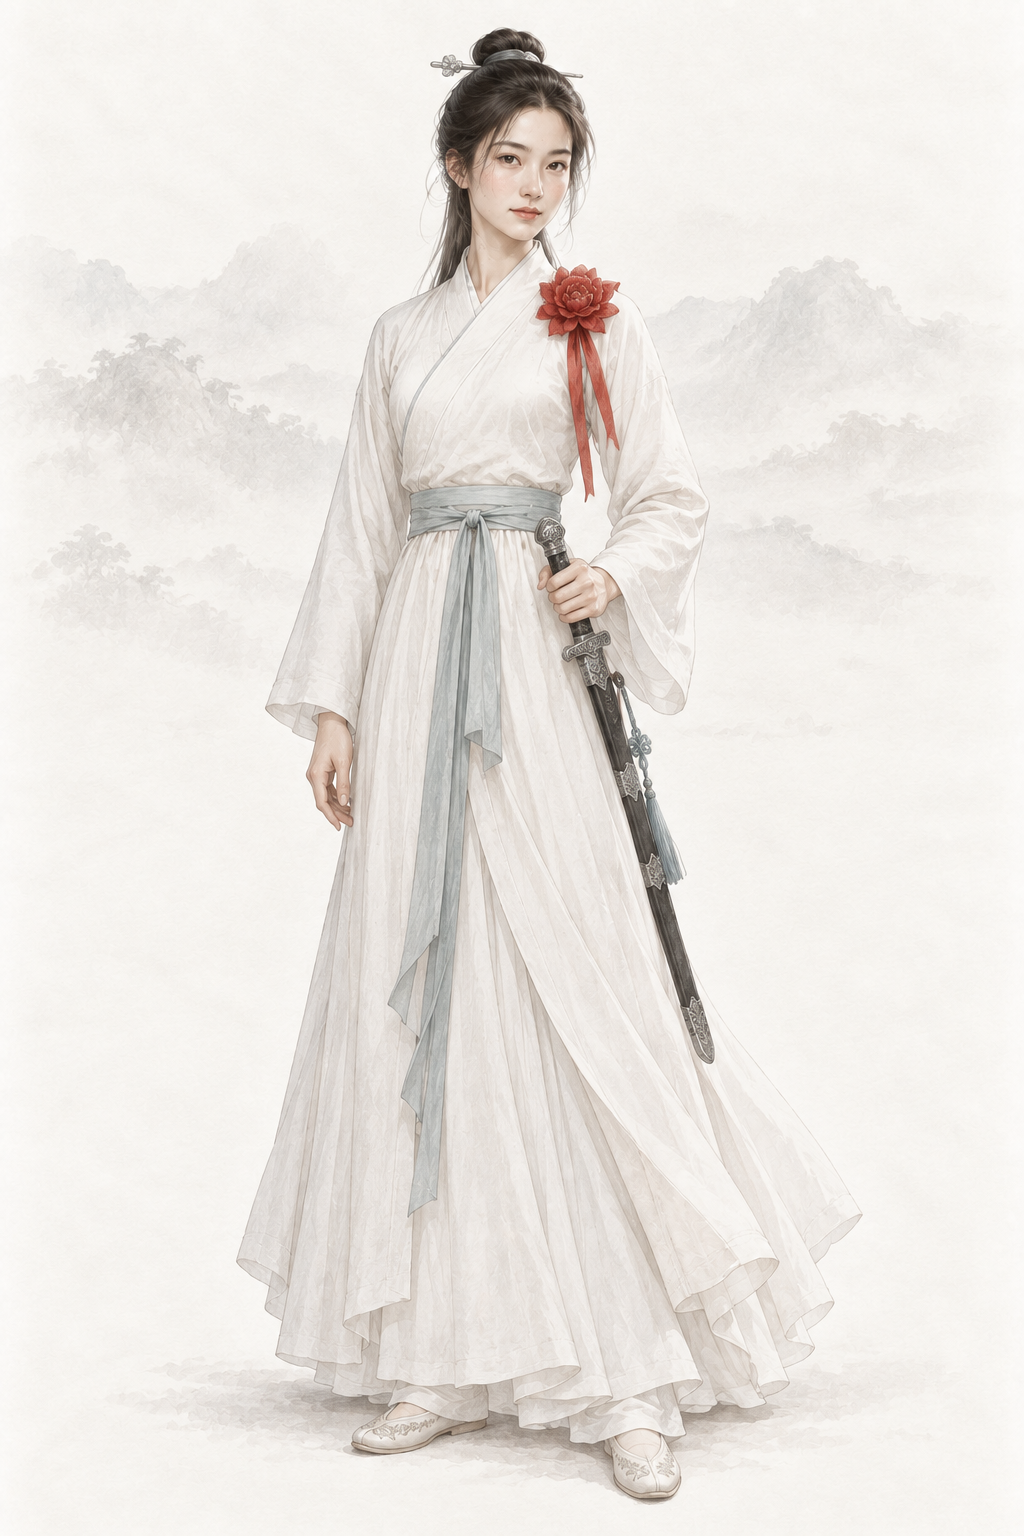
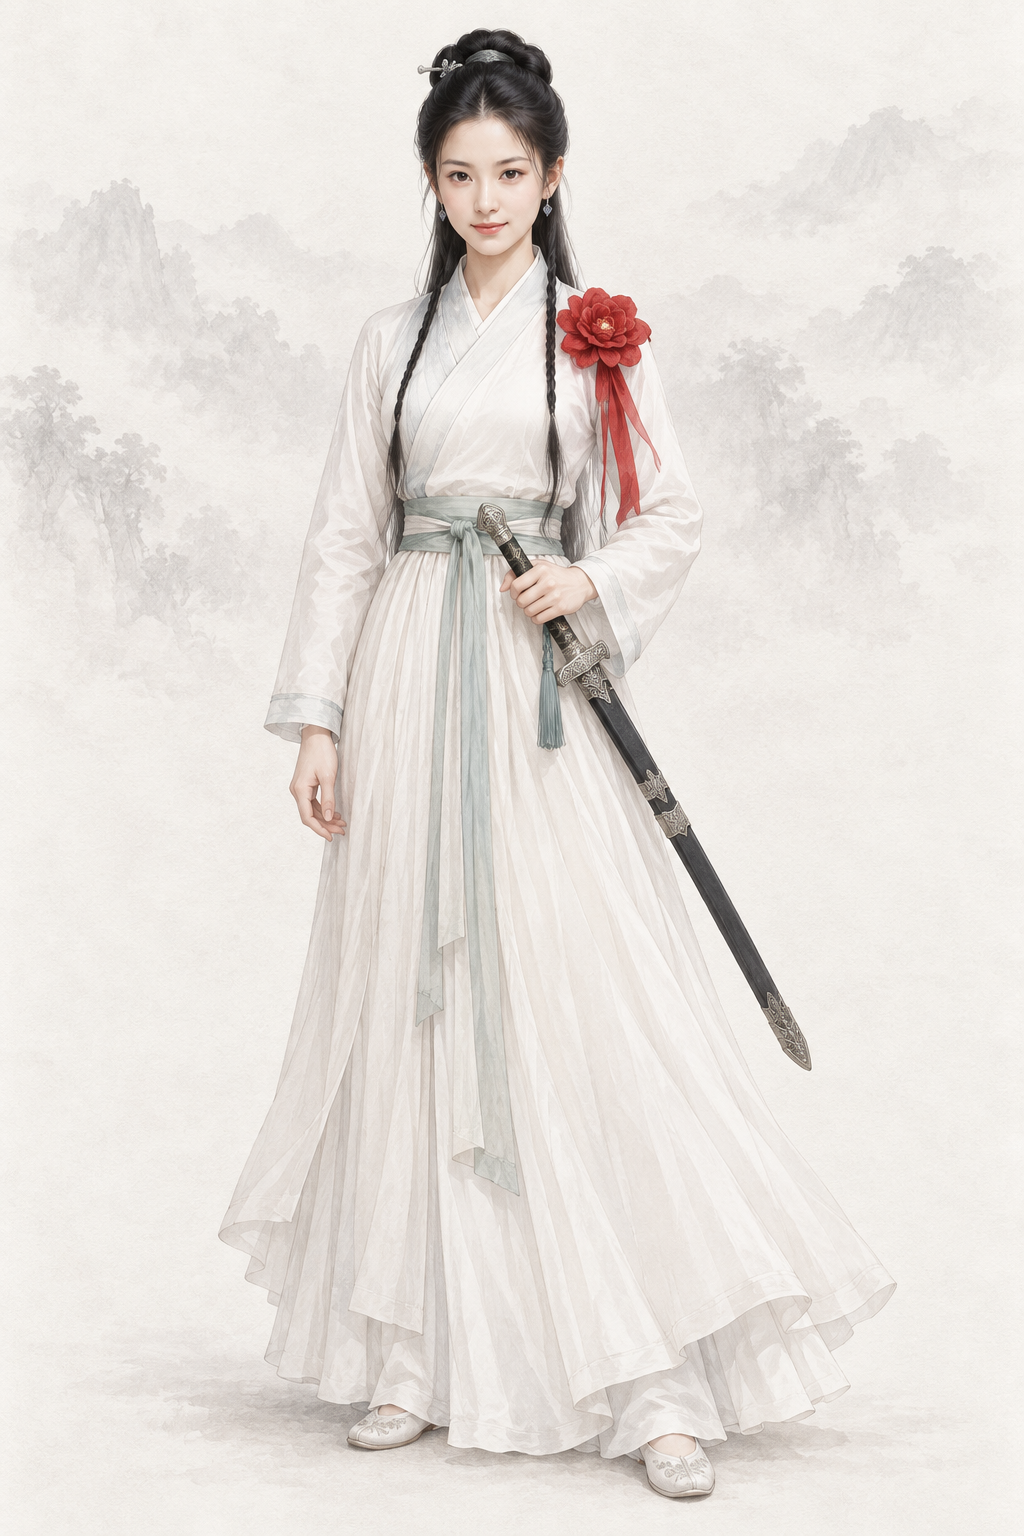
assets(character): por_npc_shuisheng__ch09_youth_travel_base 水笙（codex · AR-32 经典剧照重出）
2004 年《连城诀》电视剧剧照 1 张 + 基线；提示词写回「## Gemini 提示词」，上一版留作历史，frontmatter 加 classic_ref。

diff --git a/assets/default/prompts/characters/ch09-liancheng/npc_shuisheng.md b/assets/default/prompts/characters/ch09-liancheng/npc_shuisheng.md
@@ -13,9 +13,16 @@ references:
     use: 当前仓库 manifest 为 approved（已通过）；只参考纸底、光线、笔触和设色，不沿用脸、体型、服饰或道具
 status: new
 redo_reason: "连城诀女主角水笙（S）缺图；按名门侠女、骄傲爽朗的气质补出劫难前的行旅阶段。"
-reference_upload:
-- assets/default/baseline/character/female/ref_npc_wangyuyan__ch01_base01.png
 codex_prompt_rev: 2026-10-02
+classic_ref:
+  version: "2004 年《连城诀》电视剧"
+  stills:
+  - ".agents/coord/imagegen-reference/identity-20261001/liancheng/shuisheng_2004_shuchang_pnkds_20261002.jpg"
+  note: "剧照缩到长边 1024 的 JPEG 上传，放在两张同性别基线之前（AR-32）"
+reference_upload:
+- .agents/coord/imagegen-reference/identity-20261001/liancheng/shuisheng_2004_shuchang_pnkds_20261002.jpg
+- assets/default/baseline/character/female/ref_npc_wangyuyan__ch01_base01.png
+- assets/default/baseline/character/female/ref_npc_xiaolongnv__ch03_base01.png
 ---
 
 <!-- full-coverage-import:current-policy:v1 -->
@@ -28,6 +35,26 @@ codex_prompt_rev: 2026-10-02
 # 水笙 · 《连城诀》（ch09）
 
 ## Gemini 提示词
+
+> 2026-10-02 AR-32 经典剧照重出（6 号出图员，codex exec · image_gen 出图）：上传该角色经典影视版剧照 1 张（2004 年《连城诀》电视剧：shuisheng_2004_shuchang_pnkds_20261002.jpg）在前、两张同性别基线在后。剧照只借鉴发型、服饰、配色、标志道具、气质与面部特征，重新绘制成项目画风，不照搬照片的构图、光影和姿势；人物一律成年。提示词里不写演员名。上一版提示词保留在下一节作历史。
+
+```text
+生成一张 2:3 竖幅全身人物立绘：单人、单一视角、完整全身——头顶、双手、双脚和手中器物的两端都在画面内，四周留出自然空白；人物站姿自然，身体基本朝向正面，头部端正（不歪头、不仰不俯），镜头平视。
+【参考图】随提示词上传 3 张参考图。第 1 张参考图是该角色经典影视造型的剧照：借鉴其发型、服饰、配色、标志道具、气质和面部特征，让人一眼认出是这个角色；但必须重新绘制成项目画风，不要照片质感，不要照搬剧照的构图、光影、背景和姿势，也不要做成照片修图。剧照与下文文字不一致的地方（年龄、所处阶段、帽饰与衣装细节、手中器物），以下文文字为准；画中人一律是成年人。最后两张是本项目画风基线：画风、用色、光线、质感和暖浅灰纸底加淡水墨背景以它们为准。
+【画风】写实手绘古风人物插画，与本项目写实武侠角色立绘同一画风，像功力深厚的画师用细腻笔触画出的真实美人。手绘插画质感，不是 CG 渲染：不要过度光滑的皮肤、完美对称的五官、塑料高光、过度锐利的发丝；保留自然的笔触和细微不完美。肌肤细腻自然，看得见极细的肤理和自然的左右不对称，不磨皮、不油亮、不打粉；头发是一缕缕自然的发丝和少量碎发；布料看得出经纬纹理、厚薄和自然垂坠的褶皱，干净完整；整体设色低饱和、雅致；柔和的自然光从左上方照来，明暗过渡自然，不打舞台光、轮廓光或美颜柔光。不是照片，不是三维渲染，不是动漫或游戏 CG，也不是油画（没有厚涂笔触和画布纹理）。
+【背景】不透明的暖浅灰色纸底，只在远处有极淡的水墨远山和薄雾，大面积留白；人物与背景明暗分明、轮廓边缘干净完整（后续要自动抠图），水墨和纸纹只在背景里，不侵入人物和衣服；脚下只有很淡的一点接触阴影。
+【人物】水笙，《连城诀》女主角，江南大侠“冷月剑”水岱的女儿；与表哥汪啸风骑马同行、尚未被血刀老祖劫走的时期。
+【年龄与体态】外观约二十岁的成年年轻女子，身材高挑匀称，体态轻健，成人比例。
+【经典造型】要一眼认出是水笙——一身白衣、左肩一朵红绸大花、腰佩长剑，俏丽明艳、骄傲爽朗的名门侠女；美丽出众。
+【面容】脸以剧照为底子——保留剧照里这个角色的脸型、眉眼、鼻唇的比例关系和神气，画成成年人；俏丽明艳的鹅蛋脸，下颌线清楚；眉毛舒展而微挑；眼睛明亮，神情骄傲爽朗，带着名门侠女的自信和一点任性；鼻梁挺秀；嘴唇饱满；肤色健康，有真实的皮肤纹理。
+【发式】黑发挽成利落的发髻，插一支细银簪，两鬓各编一条细辫垂到胸前，其余头发收拢在背后。
+【服饰】一身白色的交领窄袖短袄（右衽）与白色长裙（内穿长裤），左肩衣上缀一朵红绸大花，腰系浅青细布带，软底布鞋。
+【道具与姿态】腰间左侧佩一柄连鞘长剑，左手扶着剑柄；右手自然垂下；站姿轻盈，抬眼直视前方。
+【不要】画面里不要任何文字、题款、印章、签名、水印、台标、边框、分格或多视图；不要第二个人；不要幼态（童颜、娃娃脸、婴儿肥、儿童或少年身材、大头小身）；不要塑料感皮肤、磨皮美颜、网红脸（尖下巴大眼高鼻的模板脸）、过度对称、浓妆、偶像式打光、蜡像感；不要照片质感、三维渲染或动漫大眼；不要歪头、斜镜头；不要多指、缺指（设定的伤残除外）、手与器物粘连或悬空；汉式交领必须右衽（穿着者的左襟压在右襟上），不要左衽（设定为少数民族服制的除外），不要水平镜像；不要现代物品、日式服饰或日本刀、发光特效、法阵或能量光。不要照片或照片修图的质感，不要照搬剧照的构图、光影、背景和姿势，不要剧照里的字幕、台标和水印。不要少女幼态；不要网红脸；不要和戚芳、凌霜华同一张脸。清初汉族女子仍穿明式袄裙：汉式交领一律右衽（穿着者左襟压右襟），不要左衽、不要水平镜像。不要照搬剧照里手拿的白花。
+【画风基线】随提示词上传的参考图里，最后两张是本项目的立绘画风基线：只参考它们的画风、用色、光线、质感和暖浅灰纸底加淡水墨的背景处理，整体画风必须与它们一致——精细写实的数字手绘插画，不是油画，不要厚涂笔触和画布纹理。基线图只取画风，不取长相：不要照搬基线图里人物的长相、年龄、发型、服饰和姿势。
+```
+
+## 上一版 Gemini 提示词（2026-10-02 文字版；AR-32 经典剧照重出前，历史，不再用于出图）
 
 > 2026-10-02 Codex 人物线 2 号（AR-31）：在审核组稿上补一行「经典形象」（借鉴公认经典造型的发式、装束、配色、标志道具与气质，只写文字，不写演员名、不上传剧照），并补去 AI 化要求。本轮出图用下面第一个代码块；审核组原稿保留在其后的「审核组原稿」小节作历史。
 
